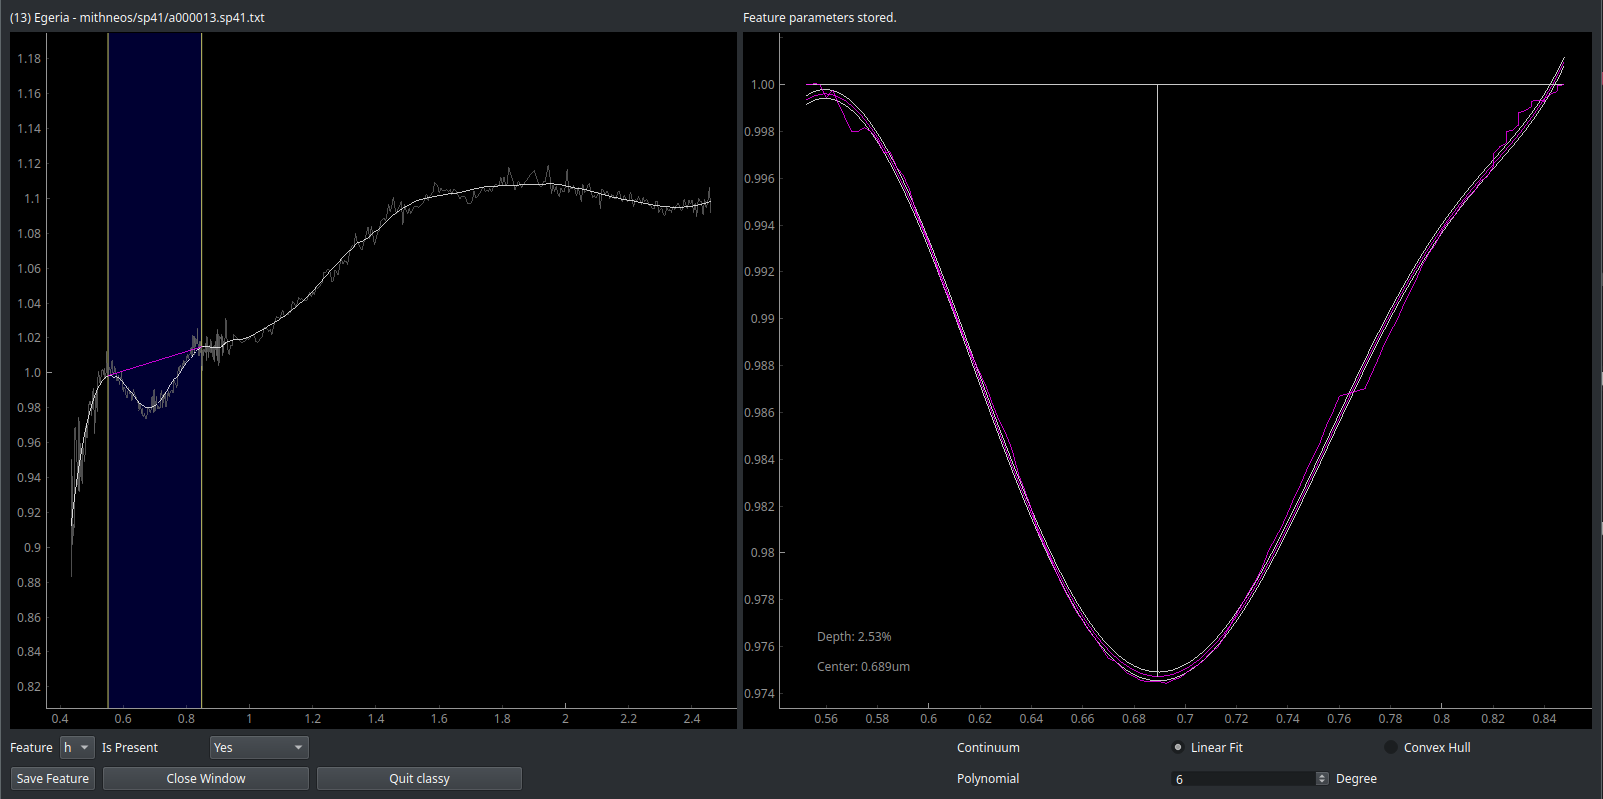
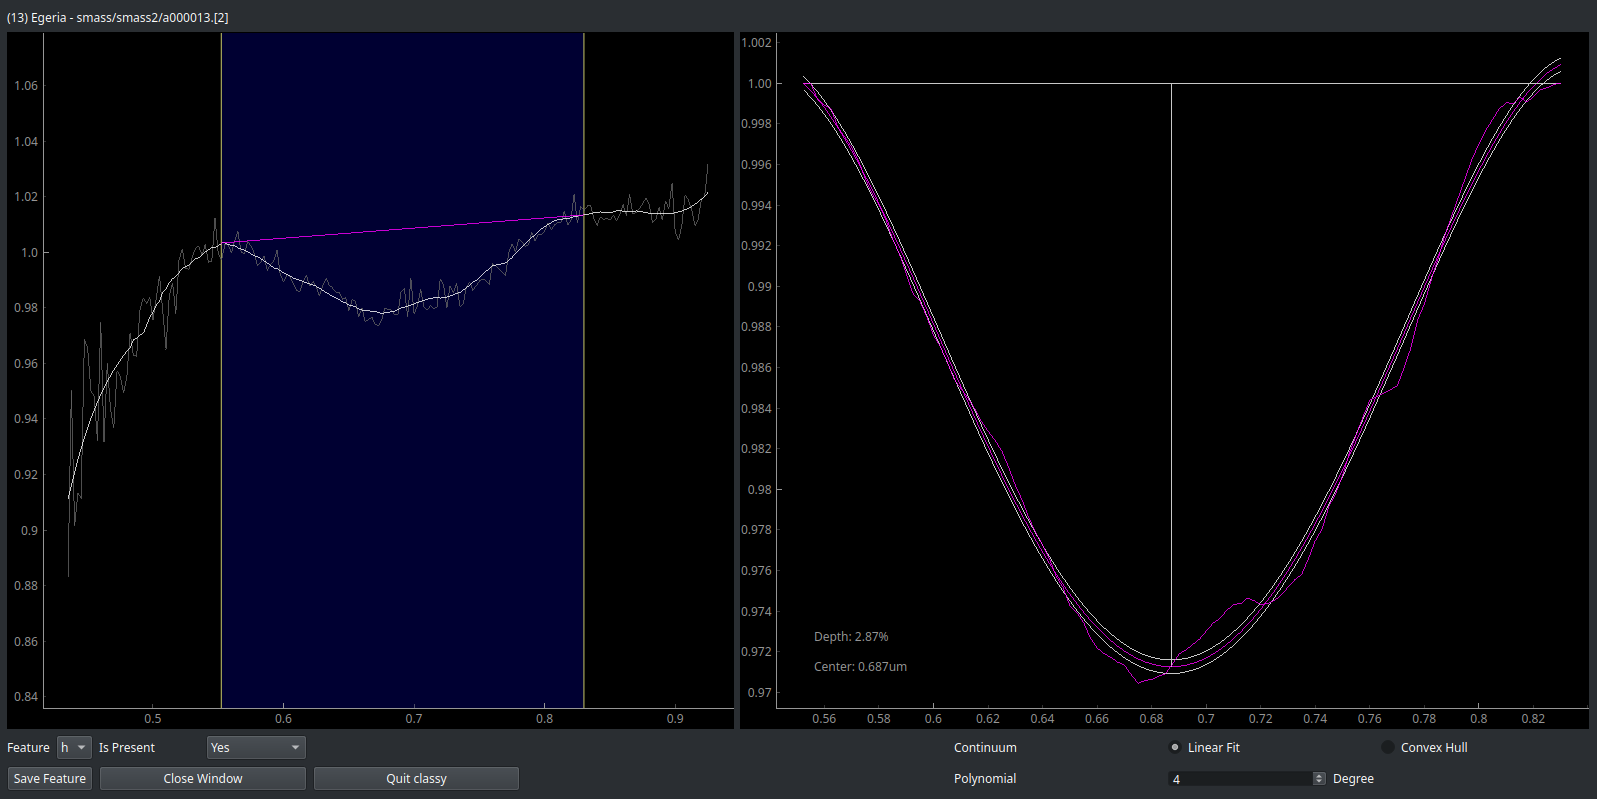
Update feature detection documentation

diff --git a/docs/features.rst b/docs/features.rst
@@ -7,95 +7,168 @@ A number of taxonomic classes have secondary characters to signal the presence o
 such as ``Ch``, ``Xk``, ``Xn``, ``Ee``. The presence or absence of these features must therefore be determined prior
 to taxonomic classification.
 
-``classy`` recognises three spectral absorption features as taxonomically relevant: the ``e``, ``h``, and ``k``
-features. They are defined in `Mahlke, Carry, and Mattei 2022 <https://arxiv.org/abs/2203.11229>`_ and plotted below.
+``classy`` recognises three spectral absorption features as taxonomically
+relevant: ``e``, ``h``, and ``k``. They are defined in `Mahlke, Carry, and
+Mattei 2022 <https://arxiv.org/abs/2203.11229>`_. Example spectra presenting the features are shown below.
 
-.. image:: gfx/feature_flags.png
+.. image:: gfx/features/feature_flags.png
     :align: center
     :class: only-light
     :width: 600
 
-.. image:: gfx/feature_flags_dark.png
+.. image:: gfx/features/feature_flags_dark.png
     :align: center
     :class: only-dark
     :width: 600
 
-Detection
----------
+Inspection
+----------
 
-Each spectrum in ``classy`` has the ``e``, ``h``, and ``k`` attributes which represent
-the absorption features. Each feature has three different attributes which represent its presence or absence:
+Let's take this spectrum of (13) *Egeria* from Bus and Binzel 2002 as an example.
+
+.. code-block:: python
+
+   >>> import classy
+   >>> spectra = classy.Spectra(13, shortbib="Bus and Binzel 2002")
+   >>> spec = spectra[0]  # only one match
+   >>> spec.plot()
+
+.. image:: gfx/features/egeria_bb02.png
+    :align: center
+    :class: only-light
+    :width: 600
+
+.. image:: gfx/features/egeria_bb02_dark.png
+    :align: center
+    :class: only-dark
+    :width: 600
+
+Each spectrum in ``classy`` has the ``e``, ``h``, and ``k`` attributes which
+represent the absorption features. Each feature has three different attributes
+which represent its presence or absence:
 
 - ``is_covered``: ``True`` if the spectrum covers the feature wavelength range, else ``False``
 - ``is_candidate``: ``True`` if ``is_covered`` but the band has not been inspected yet by the user, else ``False``
 - ``is_present``: ``True`` if the presence of the band has been visually confirmed by the user, else ``False``
 
-.. TODO:Turn the paragraph below into a logic diagram
+This means that, by default, ``classy`` assumes that all features are absent in a given spectrum. However, it automatically
+determines whether the feature range is covered by the spectrum.
 
-When a spectrum is loaded into ``classy``, its wavelength range is evaluated
-and the ``is_covered`` attribute of each of the three features is set
-accordingly. If ``is_covered`` is ``True``, the spectrum is a candidate to have
-the feature. It is then up to you to visually confirm or deny the presence,
-setting `is_present`` into ``True`` or ``False`` depending on the inspection
-result. After the inspection, ``is_candidate`` is ``False`` as we now know
-whether the feature is present or not.
+.. code-block:: python
+
+   >>> spec.e
+   <Feature e>
+   >>> spec.e.is_covered
+   True
+   >>> spec.h
+   <Feature h>
+   >>> spec.h.is_covered
+   True
+   >>> spec.h.is_candidate
+   True
+   >>> spec.h.is_present
+   False
+   >>> spec.k
+   <Feature k>
+   >>> spec.k.is_covered
+   False
+   >>> spec.k.is_candidate
+   False
+
+We see that the spectrum of (13) *Egeria* covers the ``e`` and ``h`` but not ``k``. ``k`` is not a candidate
+and ``classy`` will exclude from any of the steps below automatically.
+
+The ``h`` feature is present in the spectrum but ``classy`` does not know it yet. It remains a ``is_candidate`` spectrum.
+The same is true for the ``e`` feature, although we can see that it is not present. To change this, we have to visually
+inspect the features and store the decision in the ``classy`` feature index.
 
 .. tab-set::
 
    .. tab-item:: Command Line
 
-       Use
-       Only spectra that cover the feature wavelength ranger will be included.
+      Use the ``features`` command to inspect features in any number of spectra. You select the spectra
+      using the :ref:`spectra selection syntax <selecting_spectra>`.
+      Only spectra that cover the feature wavelength ranger will be included.
+      The spectra will be smoothed before if smoothing parameters are in the preprocessing index.
 
-       .. code-block:: shell
+      .. code-block:: shell
 
-          $ classy features --shortbib "Morate+ 2016"
+         $ classy features --shortbib "Morate+ 2016"
 
-          $ classy features --shortbib "Morate+ 2016" --feature h
+      Unlike in the general syntax, the ``feature`` keyword here serves to
+      select one or many of the features to fit.
+
+      .. code-block:: shell
+
+         $ classy features --shortbib "Morate+ 2016" --feature h
+         $ classy features --shortbib "Morate+ 2016" --feature e,k
+
+      By default, features that have already been inspected are skipped.
+      Use the ``force`` argument to override this behaviour.
+
+      .. code-block:: shell
+
+         $ classy features --shortbib "Morate+ 2016" --force
+
+
+      This will open the interactive fitting interface that is shown below.
+
 
    .. tab-item:: python
 
-       Use
+      You can request to inspect features at different levels of the ``classy`` hierarchy:
 
-       .. code-block:: python
+      .. code-block:: python
 
-          >>> import classy
-          >>> spectra = classy.Spectra(shortbib="Morate+ 2016")
-          >>> for spec in spectra:
-          ...     if spec.h.is_candidate:
-          ...         spec.h.inspect()
+         >>> spectra = classy.Spectra(shortbib="Morate+ 2016")
+         >>> spectra.inspect_features()  # inspect all features of all spectra
+         >>> spec = spectra[0]
+         >>> spec.inspect_features()  # inspect all features of this spectrum
+         >>> spec.h.inspect()  # inspect the h feature of this spectrum
 
-SCREENSHOT OF FITTING TOOL
+      When using ``inspect_features``, only spectra that cover the feature
+      wavelength ranger will be included.
+      The spectra will be smoothed before if smoothing parameters are in the preprocessing index.
 
-.. _feature_index:
-Feature Index
-+++++++++++++
+      You can select the feature to fit using the ``feature`` argument.
 
-EXAMPLE
+      .. code-block:: python
 
-classy feature index
+         >>> spectra.inspect_features(feature=['h', 'k'])
 
+      By default, features that have already been inspected are skipped.
+      Use the ``force`` argument to override this behaviour.
 
-Share results with other people, promoting reproducibility. classy directory
-can be shared between devices
+      .. code-block:: python
+
+         >>> spectra.inspect_features(force=True)
+
+      This will open the interactive fitting interface that is shown below.
+
+.. image:: gfx/features/feature_interface.png
+    :align: center
+    :width: 800
 
 Analysis
 --------
 
-Features are essentially mini-spectra
-
+Once you have fit a feature, the fit properties are available as attributes.
 
 .. code-block:: python
 
-    >>> ceres = classy.Spectra("Fortuna", source='SMASS')[0]  # returns classy.Spectrum
-    >>> ceres.h.is_observed # is the 0.7mu hydration feature covered by the wavelength range?
+    >>> spec.h.is_present
     True
-    >>> ceres.h.is_present  #  is the 0.7mu hydration feature present in the spectrum?
-    True
-    >>> ceres.h.center  #  what is the center wavelength of the feature?
-    0.68
+    >>> spec.h.center
+    0.6904584561717655
+    >>> spec.h.depth
+    2.705244585887634  # in percent
 
+The inspection results are stored in the feature index. When you load the same spectrum
+in another analysis, ``classy`` sets all relevant feature attributes and marks the spectrum directly
+as inspected.
 
-When a ``classy.Spectrum`` is created, ``classy`` automatically creates the feature attributes and sets
-the ``is_observed`` values corresponding to the wavelength values. It will further perform a simple band fit
-to determine whether it is present and band parameters like the center wavelength and the depth.
+.. admonition:: Sharing is caring
+
+  The feature index makes it easy to share your work and results with other users of ``classy``.
+  This increases reproducibility and prevents two people from having to inspect the same spectra.
+  Instructions on how to share parts of your feature index are given in the :ref:`Appendix <share_features>`.

diff --git a/docs/preprocessing.rst b/docs/preprocessing.rst
@@ -64,7 +64,6 @@ without any arguments launches the smoothing interface.
 
 .. image:: gfx/preprocessing/smooth_interface.png
  :align: center
- :class: only-dark
  :width: 800
 
 After storing the smoothing parameters, ``classy`` will automatically apply them

diff --git a/docs/appendix.rst b/docs/appendix.rst
@@ -1,6 +1,11 @@
 Appendix
 ========
 
+.. _share_features:
+
+Sharing feature index entires
+-----------------------------
+
 Shortforms for target properties
 
 Columns of the Spectra Index
